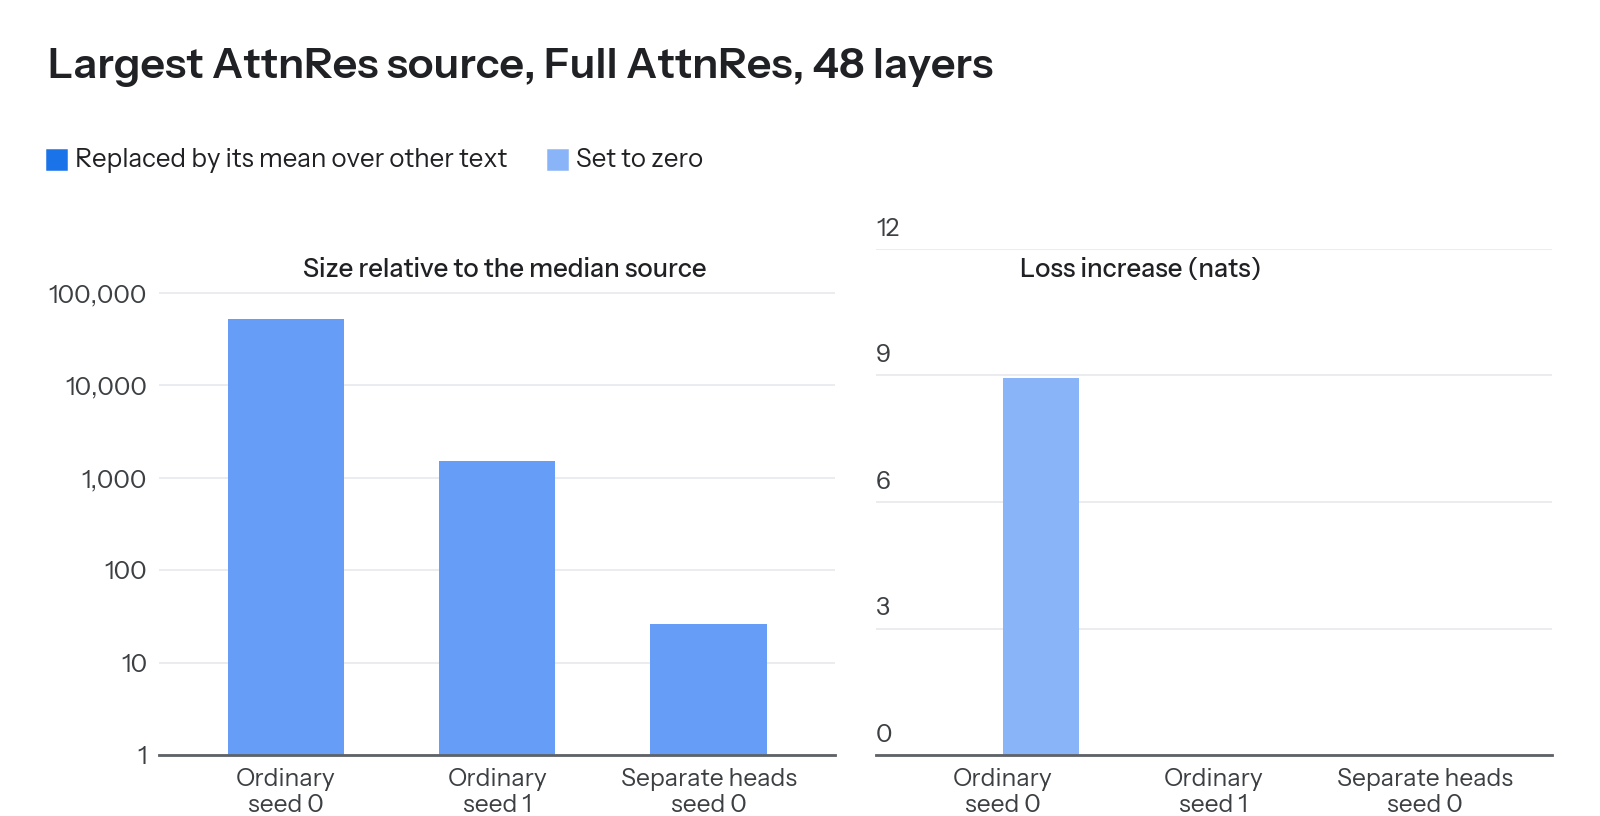
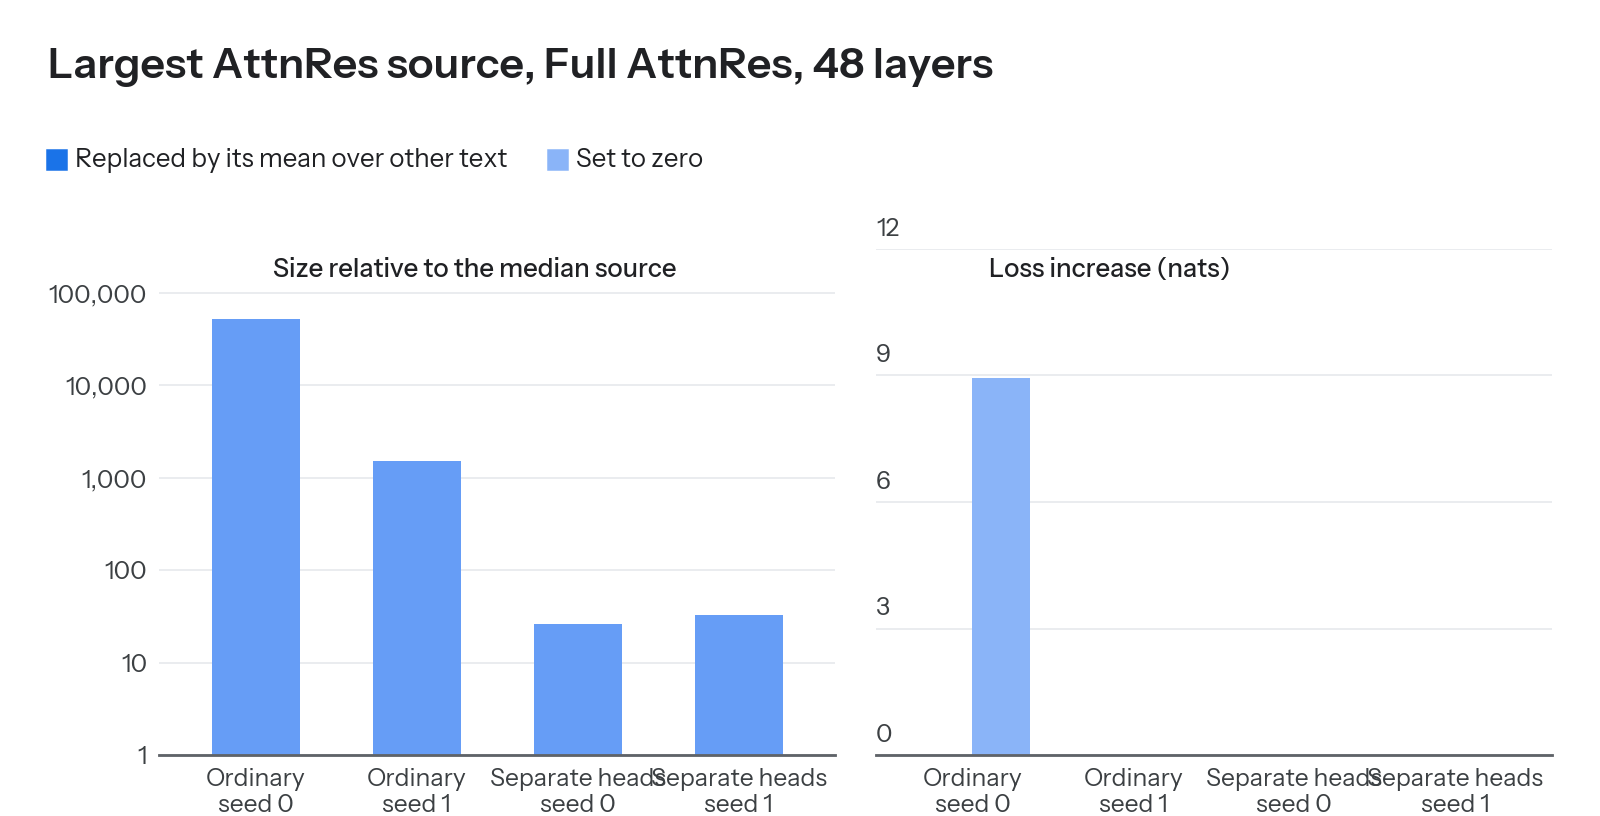
pls.md: A2 with separate heads seed 1 (largest source 33x; ordinary 52,810x and 1,511x)
Claude-Session: https://claude.ai/code/session_01KxM9p6GN3LaEp4FYv1D79m

diff --git a/docs/della/pls_archive/blog/a2_massive_plot.py b/docs/della/pls_archive/blog/a2_massive_plot.py
@@ -1,5 +1,5 @@
 """The largest AttnRes source and what it carries (A2 of the 2026-10-21 survey). Status figure for the owner.
-Data: tmp/pls_status/attnres_massive/{full,full-s1,full-sep}.json (marin-pls-auto10 scripts/della/attnres_massive.py,
+Data: tmp/pls_status/attnres_massive/{full,full-s1,full-sep,full-sep-s1}.json (marin-pls-auto10 scripts/della/attnres_massive.py,
 16 x 1024 paloma c4_en validation tokens, Full AttnRes 48 layers, step-4958): per model the source (sublayer output)
 with the largest mean per-token RMS, divided by the median source's RMS; and the final cross-entropy increase when
 that source is replaced, as it is written, by its mean over a second text (mean_held) or by zero.
@@ -11,7 +11,7 @@ from style import *
 
 apply_style()
 D = Path('/scratch/gpfs/GROUP/USER/tmp/pls_status/attnres_massive')
-M = [('full', 'Ordinary\nseed 0'), ('full-s1', 'Ordinary\nseed 1'), ('full-sep', 'Separate heads\nseed 0')]
+M = [('full', 'Ordinary\nseed 0'), ('full-s1', 'Ordinary\nseed 1'), ('full-sep', 'Separate heads\nseed 0'), ('full-sep-s1', 'Separate heads\nseed 1')]
 r = {k: json.load(open(D / f'{k}.json')) for k, _ in M}
 x = np.arange(len(M))
 fig, axes = canvas(1, 2, width=WIDTH_TEXT, panel_height=2.0, title='Largest AttnRes source, Full AttnRes, 48 layers',

diff --git a/docs/della/pls.md b/docs/della/pls.md
@@ -521,7 +521,7 @@ GPU 运行（8 GPU，20 h，`--partial`）：w61 `arch2-preln-lnsequiv`（`-apre
 ## A2：Full AttnRes 最大的源（2026-10-22）
 
 脚本：marin-pls-auto10 `scripts/della/attnres_massive.py`。数据：paloma c4_en validation，文本 A 16×1024 token（计分），文本 B 另 16×1024
-token（求均值）。输出：`tmp/pls_status/attnres_massive/{full,full-s1,full-sep}.json`，状态图 `pls_archive/blog/a2_massive_plot.py`。
+token（求均值）。输出：`tmp/pls_status/attnres_massive/{full,full-s1,full-sep,full-sep-s1}.json`，状态图 `pls_archive/blog/a2_massive_plot.py`。
 对每个模型取每 token RMS 均值最大的源（子层输出），在写入时替换它。
 
 | 模型 | 最大的源 | 相对中位数 | 与均值的 cos | RMS 变异系数 | 换成文本 B 均值 | 置零 | 每 token 缩放到平均 RMS |
@@ -529,10 +529,13 @@ token（求均值）。输出：`tmp/pls_status/attnres_massive/{full,full-s1,fu
 | 普通模型（探针）seed 0 | L44.mlp | 52,810× | 1.000 | 0.05 | +0.0000 | +8.95 | −0.0000 |
 | 普通模型（探针）seed 1 | L47.mlp | 1,511× | 0.961 | 0.57 | +0.0014 | +0.0018 | +0.0008 |
 | 独立头 seed 0 | L22.mlp | 26× | 0.234 | 2.43 | +0.0080 | +0.0083 | +0.585 |
+| 独立头 seed 1 | L48.mlp | 33× | 0.910 | 11.5 | +0.0000 | +0.0000 | +0.0000 |
 
 1. seed 0 的巨大源是一个常数偏置：每个 token 都写同一个向量，换成均值不改变损失，置零损失增加 8.95 nats。读它的是第 48 层 MLP，
    这一层的输出也是常数（与均值的 cos 1.000）；把 L48.mlp 输出换成均值，损失不变。
 2. 这个源只属于 seed 0。seed 1 最大的源小 35 倍，由输出头读取，置零只增加 0.0018 nats。所以“巨大常数源”不是 Full AttnRes 的结构
    性质，是一个种子学到的偏置通路。
-3. 独立头模型没有巨大源（最大 26×）。它的最大源只在少数 token 上很大（p90 的 cos 0.99，中位数 0.09）：值本身不重要（置零 +0.008），
-   但把每个 token 缩放到平均大小的代价是 0.585 nats，信息在“哪些 token 写得大”里。只有一个独立头种子，所以“独立头去掉巨大源”还不成立。
+3. 独立头模型两个种子都没有巨大源（最大 26× 和 33×）；普通模型两个种子是 52,810× 和 1,511×。所以独立头损失让最大的源小 50 到 2,000 倍
+   （每组两个种子）。seed 0 的最大源只在少数 token 上很大（p90 的 cos 0.99，中位数 0.09）：值本身不重要（置零 +0.008），但把每个
+   token 缩放到平均大小的代价是 0.585 nats，信息在“哪些 token 写得大”里。seed 1 的最大源是 L48.mlp，只由输出头读取，任何替换都不改变
+   损失。
